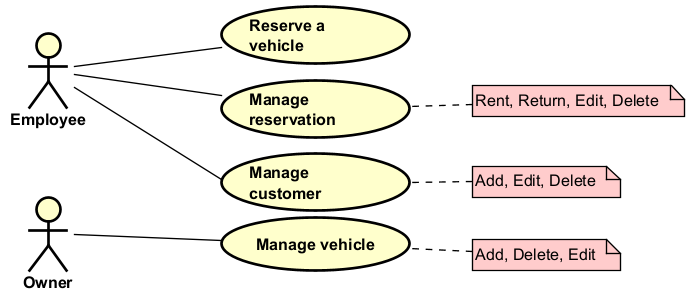
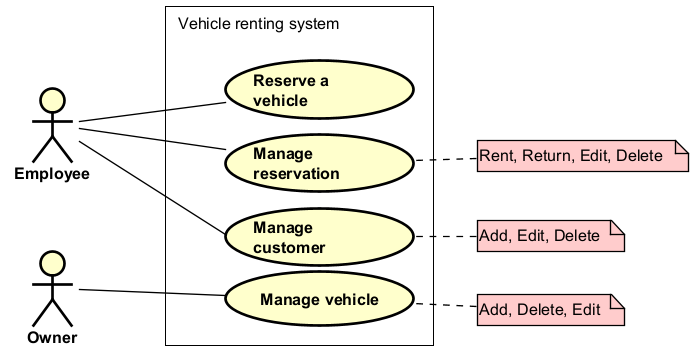
sdfsdf

diff --git a/Articles/SEP1/Use case diagrams/001 Introduction.md b/Articles/SEP1/Use case diagrams/001 Introduction.md
@@ -1,32 +1,35 @@
 # Introducing use case diagrams
 
 
+This learning path will introduce you to use case diagrams, and how to create them.
+
 ## What is a use case?
 
-We can say a "use case" is a detailed description of a functionality in the system, that the actor can perform. A single use case can contain multiple user stories, and several diagrams.
+This is explained in more detail in the "Use case descriptions" learning path. But for a quick recap:
 
-These use cases can then be represented in a use case diagram, with the purpose of providing a high-level overview of the system.
+We can say a "use case" is a detailed description of some functionality in the system, that the actor can perform. A single use case can include multiple user stories, descriptions, and diagrams.\
+A use case is a collection of related success and failure _scenarios_ that describe an actor using a system to support a goal.
 
-Other learning paths will explain the other elements of use cases, e.g. the description, activity diagram, system sequence diagram, etc. All of these can be considered parts of a use case.
-
-We will start with the use case diagram, in the learning path.
+These use cases can then be represented in a _use case diagram_, with the purpose of providing a high-level overview of the system.
 
 ## Then, what is the use case diagram?
 
-The _use case diagram_ is an analysis artefact, a UML diagram, that provides an overview of actors in the system, and the actions they can perform.
+The _use case diagram_ is an analysis artefact, a UML diagram, that provides an overview of actors in the system, and the actions they can perform, i.e. the use cases.
 
-It is a visual representation of the requirements, with less details. The purpose is to provide a high-level overview of what each user type does in the system.
+It is a visual representation of the use cases, with less details. The purpose is to provide a high-level overview of what each user type does in the system.
 
-This "high-level" is achieved by grouping related user stories together into _use cases_. These are represented by bubbles in the diagram. We will explain them in detail on upcoming pages.
+This "high-level" is achieved by just providing titles, and potentially grouping related use cases together to simplify the overview. 
 
 The diagram should be accompanied by a table showing which user stories are included in which use cases. This is to make sure every user story is covered.
 
-Consider the following examples:
+Consider the below examples.
 
 Here is one for a library system.
 
 ![Example1](Resources/Example1.png)
 
-And here is one for a car rental system.
+It should be clear that a `Student` can borrow a book, return a book, etc. While the `Librarian` can manage student accounts, add new books to the library, etc.
+
+And here is a small one for a car rental system.
 
 ![Example2](Resources/Example2.png)

diff --git a/Articles/SEP1/Use case descriptions/098 Epic example.md b/Articles/SEP1/Use case descriptions/098 Epic example.md
@@ -1,0 +1,84 @@
+# Use Case: Manage Bank Account (UC-MBA)
+
+**Actors:** User, Bank System  
+**Goal:** Allow a user to perform core account management functions.  
+**Summary:**  
+The user can manage their bank account by performing actions such as transferring money, updating account details, viewing transactions, and closing the account. Each action is described in a separate sub-use case.
+
+**Preconditions:**  
+- User is authenticated.  
+- User has at least one active bank account.
+
+**Postconditions:**  
+- Changes made by the user are persisted in the system.  
+- Relevant notifications or confirmations are sent to the user.
+
+**Basic Flow (High-Level):**  
+1. User navigates to the account management section.  
+2. User selects a desired action (transfer, update details, view transactions, close account).  
+3. System invokes the corresponding sub-use case.  
+4. System provides feedback or confirmation of the action.
+
+**Extensions / Variations:**  
+- Each specific action is handled by a **child use case**:  
+  - UC-1: Transfer Money  
+  - UC-2: Update Account Details  
+  - UC-3: View Transactions  
+  - UC-4: Close Account
+
+---
+
+## Child Use Cases
+
+### UC-1: Transfer Money
+**Actors:** User, Bank System  
+**Goal:** Transfer money from one account to another.  
+**Summary:** User selects an account, enters recipient details and amount, and completes the transfer.
+
+**Basic Flow:**  
+1. User selects “Transfer Money”.  
+2. User enters recipient account and amount.  
+3. System validates details and checks balance.  
+4. System completes transfer and notifies user.
+
+**Alternative Flows:**  
+- Insufficient balance → system shows error and aborts transfer.  
+- Invalid recipient → system shows error and requests correction.
+
+---
+
+### UC-2: Update Account Details
+**Actors:** User, Bank System  
+**Goal:** Modify account information (e.g., address, contact info).  
+
+**Basic Flow:**  
+1. User selects “Update Account Details”.  
+2. User edits details and submits changes.  
+3. System validates inputs and updates account.  
+4. System confirms successful update.
+
+---
+
+### UC-3: View Transactions
+**Actors:** User, Bank System  
+**Goal:** Review past transactions for an account.  
+
+**Basic Flow:**  
+1. User selects “View Transactions”.  
+2. User selects account and date range.  
+3. System displays transactions in chronological order.
+
+---
+
+### UC-4: Close Account
+**Actors:** User, Bank System  
+**Goal:** Close an existing bank account.  
+
+**Basic Flow:**  
+1. User selects “Close Account”.  
+2. System confirms action with user.  
+3. System closes the account if preconditions are met (e.g., balance is zero).  
+4. System confirms closure.
+
+**Alternative Flow:**  
+- Account has remaining balance → system requests withdrawal or transfer before closure.

diff --git a/Articles/SEP1/Use case diagrams/003 Use case bubbles.md b/Articles/SEP1/Use case diagrams/003 Use case bubbles.md
@@ -1,4 +1,4 @@
-# What is a use case?
+# The use case bubbles
 
 In the use case diagram, use cases are represented as oval bubbles, with a title inside.
 
@@ -20,16 +20,18 @@ There is a general format, which will fit for most use case titles:
 
 ## Where do they come from?
 
-The first step is simple to take each of the user stories, and convert it to a use case bubble for the diagam.
+The use cases shown in the diagram first come from the use cases you have identified. For each use case, you put a bubble in the diagram, with the title of the use case.
 
-Here's how user stories map to use case titles:
+You will probably often find that each user story maps to a single use case. Though, there are cases, where this is not true.
+
+Here's an example of how user stories map to use case titles in a library system. Notice how multiple user stories about searching for a book are merged into a single use case, "Search Book".
 
 | User Story | Use Case Title |
 |------------|----------------|
 | As a _librarian_, I want to be able to _add a new book to the library_, so that I can _be able to loan out books_. | Add Book |
-| As a _librarian_, I want to be able to _search for a book by title_, so that I can _find a book quickly_. | Search Book by Title |
-| As a _librarian_, I want to be able to _search for a book by author_, so that I can _find a book quickly_. | Search Book by Author |
-| As a _librarian_, I want to be able to _search for a book by ISBN_, so that I can _find a book quickly_. | Search Book by ISBN |
+| As a _librarian_, I want to be able to _search for a book by title_, so that I can _find a book quickly_. | Search Book |
+| As a _librarian_, I want to be able to _search for a book by author_, so that I can _find a book quickly_. | Search Book |
+| As a _librarian_, I want to be able to _search for a book by ISBN_, so that I can _find a book quickly_. | Search Book |
 | As a _librarian_, I want to be able to _mark a book as loaned out_, so that I can _keep track of unavailable books_. | Mark Book as Loaned |
 | As a _librarian_, I want to be able to _mark a book as returned_, so that I can _keep track of available books_. | Mark Book as Returned |
 | As a _student_, I want to be able to _create an account_, so that I can _borrow books from the library_. | Create Account |

diff --git a/Articles/SEP1/Use case diagrams/004 Building the diagram.md b/Articles/SEP1/Use case diagrams/004 Building the diagram.md
@@ -8,9 +8,7 @@ You can use Astah to build the diagram. Or you can use [draw.io](https://app.dia
 From the previous page, we have the following use case titles:
 
 - (Librarian) Add Book
-- (Librarian) Search Book by Title
-- (Librarian) Search Book by Author
-- (Librarian) Search Book by ISBN
+- (Librarian) Search Book
 - (Librarian) Mark Book as Loaned
 - (Librarian) Mark Book as Returned
 - (Student) Create Account
@@ -24,9 +22,9 @@ From the previous page, we have the following use case titles:
 
 ## Step 1
 
-Go through the user stories, one by one, and convert them to use case bubbles. Plop these bubbles in the middle of the diagram.
+Go through your use cases, one by one, and convert them to use case bubbles. Plop these bubbles in the middle of the diagram.
 
-You should really aim to keep the bubbles in a vertical allignement, as you have seen in previous examples.
+You should really aim to keep (most of) the bubbles in a vertical allignement, as you have seen in previous examples.
 
 ![Step 1](Resources/Step1.png)
 
@@ -40,7 +38,7 @@ In this case we have three actors: Librarian, Student, and Administrator.
 
 ## Step 3
 
-Add the relationships between the actors and the use cases. We do this by drawing a _straight_ line from the actor to the use case. Try to organize actors and use cases in a way which minimizes the number of crossing lines. This will improve readability.
+Add the relationships between the actors and the use cases, i.e. who can do what. We do this by drawing a _straight_, full drawn line from the actor to the use case. Try to organize actors and use cases in a way which minimizes the number of crossing lines. This will improve readability.
 
 Note that sometimes, multiple actors can use the same use case. Then you just draw a line from each actor to the use case.
 
@@ -48,5 +46,5 @@ Note that sometimes, multiple actors can use the same use case. Then you just dr
 
 ## Step 4
 
-Add the secondary actors to the right of the diagram. Again, they are stacked vertically. On the right hand side.\
+Add the supporting actors to the right of the diagram, if you have any. Again, they are stacked vertically. On the right hand side.\
 Draw lines from use cases to the secondary actors, as needed.

diff --git a/Articles/SEP1/Use case descriptions/003 Merging user stories.md b/Articles/SEP1/Use case descriptions/003 Merging user stories.md
@@ -1,0 +1,41 @@
+
+
+### When does it include multiple user stories?
+
+You will occasionally have user stories, which one way or another, are related to the same functionality. In this case, you should merge them into a single use case.
+
+#### CRUD
+You will often have user stories that are related to creating, viewing, updating, and deleting a resource. These can be merged into a single use case.
+
+- As a player, I want to update my account.
+- As a player, I want to view my account.
+- As a player, I want to delete my account.
+- As a player, I want to create a new account.
+
+
+#### Sequential steps
+You may sometimes have user stories that sort of fit together by being sub-sequences of a longer sequence of steps. These can be merged into a single use case.
+
+1. As a shopper, I want to review my cart and totals so I can confirm what I’m buying.
+2. As a shopper, I want to add/select a delivery address so I can receive the order.
+3. As a shopper, I want to choose a shipping option so I can balance speed and price.
+4. As a shopper, I want to enter card/MobilePay/PayPal so I can pay securely.
+5. As a shopper, I want to use discount codes so I can reduce the price.
+
+#### Variations
+
+You may sometimes have user stories that are variations of the same user story.
+1. As a librarian, I want to search for a book by title
+2. As a librarian, I want to search for a book by author
+3. As a librarian, I want to search for a book by ISBN
+4. As a librarian, I want to search for a book by genre
+
+#### Related user stories
+
+You may sometimes have user stories that are variations of the same use case. These can be merged into a single use case.
+
+Here is one that maybe requires a bit of domain knowledge about the miniature board game Bloodbowl. But they each are something, which an actor does when recording a match result. They could be combined into a single use case, called "Record Match Result".
+
+S1: As a commissioner, I want to select a scheduled match so I record the right game.
+S2: As a coach, I want to enter scores and key stats so player SPP is correct.
+S3: As a commissioner, I want automatic standings updates so the table is current.

diff --git a/Articles/SEP1/Use case descriptions/099 Merging bubbles.md b/Articles/SEP1/Use case descriptions/099 Merging bubbles.md
@@ -1,18 +1,16 @@
 # Merging bubbles
 
 I started out by explaining that the purpose of the use case diagram is to provide a high-level overview of the system.\
-Then I recommended that you convert each user story into a bubble.
+It should show a bubble for each use case.
 
 This is a good start, but sometimes, you will want to merge two or more bubbles into one. Why?
 
 - It makes the diagram more readable.
-- Several user stories are related and can be combined into one use case.
-- You have so many user stories, that the diagram becomes incomprehensible, neglecting its original purpose.
-- Several user stories together form a full use case. I.e. each user story is one or more steps in the use case.
+- You have so many use cases, that the diagram becomes incomprehensible, neglecting its original purpose.
 
 ## Example: Merging Create, View, Update, Delete
 
-You will often have user stories that are related to creating, viewing, updating, and deleting a resource.
+You will often have use cases that are related to creating, viewing, updating, and deleting a resource.
 
 Generally, you can then merge these bubbles into one, called something like "Manage [Resource]".
 
@@ -155,3 +153,4 @@ Merge user stories into one use case when:
 - The difference is just a **parameter** (search by X, filter by Y, export as Z)
 - The **workflow steps** fits together into a longer sequence of steps that form a use case.
 - Merging improves **diagram readability**
+

diff --git a/Articles/SEP1/Use case diagrams/005 Use case relationships.md b/Articles/SEP1/Use case diagrams/005 Use case relationships.md
@@ -1,20 +1,20 @@
 # Use case relationships
 
-Sometimes use cases are related, or somehow connected. Generally that means two use cases are perfomed on after the other, as a whole. 
+Sometimes use cases are related, or somehow connected. Generally that means 
+- two use cases are perfomed one after the other, as a whole,
+- Or one use case is a sub-sequence of another use case.
 
 For example, a use case such as _Handle Credit_ Payment may be part of several regular use cases, such as _Process Sale_ and _Process Rental_.
 
 Adding the relationships is a way to organize, and clarify the use cases.
 
-We have different kinds of relationships, I will cover two of them here.
-
-The relationships are:
+We have different kinds of relationships, I will cover two of them here. They are called
 - Include
 - Extend
 
 Include is about one use case always requiring another use case to be executed first.
 
-Extend is about one use case can sometimes proceed into another use case.
+Extend is about one use case can sometimes add details to another use case.
 
 **Include** relationships are **mandatory** - the base use case cannot complete without the included functionality.
 

diff --git a/Articles/SEP1/Use case diagrams/002 The structure.md b/Articles/SEP1/Use case diagrams/002 The structure.md
@@ -4,10 +4,11 @@ The use case diagram has a specific structure, or layout.
 
 1) Primary actors are on the left. These are the actors which interacts with the system.
 2) Use cases are in the middle. These are the actions that the actors can perform. They are encased in a box, representing the system. The bubbles are (for now) the user stories.
-3) Secondary actors are on the right. These are the actors which the system uses. They are rare.
+3) Supporting actors are on the right. These are the actors which the system uses. They are rare.
+4) A box around the use case bubbles, with the name of the system.
 
 Here is a third example, about an ATM system, with a few extra notes:
 
 ![Example3](Resources/BankingSystem.png)
 
-Notice the "Banking System" actor on the right. That's because the ATM system uses the banking system to get the account information.
+Notice the "Banking System" supporting actor on the right. That's because the ATM system uses the banking system to get the account information.

diff --git a/Articles/SEP1/Use case diagrams/007 Extend.md b/Articles/SEP1/Use case diagrams/007 Extend.md
@@ -1,6 +1,6 @@
 # Extend relationship
 
-One use case can **extend** another use case. This is a way to add new/alternative behavior to a use case, without modifying the original use case.
+One use case can **extend** another use case, or worded slightly better: add an extension to another use case. This is a way to add new/extra/alternative behavior to a use case, without modifying the original use case.
 
 There are several cases:
 
@@ -14,7 +14,7 @@ I don't see how this will be relevant for any of your semester projects.
 
 Instead, I will generally recommend just modifying the original use case, and adding the new behavior.
 
-Consider the below examples, and **I am sorry for making the use cases pill-shaped rather the ovals**. I will eventually update this.
+But, consider the below examples, and **I am sorry for making the use cases pill-shaped rather the ovals**. I will eventually update this.
 
 ## Example 1: Payment Processing
 

diff --git a/Articles/SEP1/Use case diagrams/006 Include.md b/Articles/SEP1/Use case diagrams/006 Include.md
@@ -4,7 +4,7 @@
 One use case can **include** another use case. 
 
 It is common to have some _partial behavior_ that is common across several use cases.
-For example, the description of paying by credit may occur in several use cases, including Process Sale, Process Rental, Contribute to Lay-away Plan, and so forth.
+For example, the description of paying by credit card may occur in several use cases, including Process Sale, Process Rental, and so forth.
 
 
 Consider the following example:

diff --git a/Articles/SEP1/Use case diagrams/010 Extending actors.md b/Articles/SEP1/Use case diagrams/010 Extending actors.md
@@ -3,7 +3,6 @@
 Your use case diagram will often have more than one actor.
 
 Sometimes different actors do completely different things in the system.
-
 But sometimes, one actor can perform certain use cases, and then another actor can do the same, plus _some extra_ use cases.
 
 For example, two actors A and B can do the following use cases:

diff --git a/Articles/SEP1/Use case descriptions/002 What is a use case.md b/Articles/SEP1/Use case descriptions/002 What is a use case.md
@@ -1,0 +1,1 @@
+# What is a use case?
